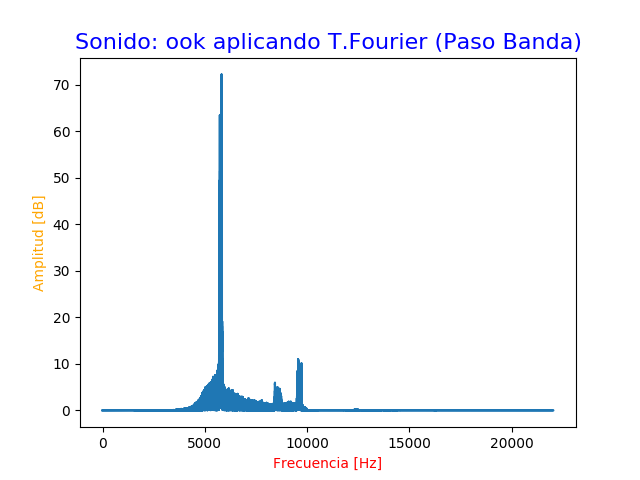
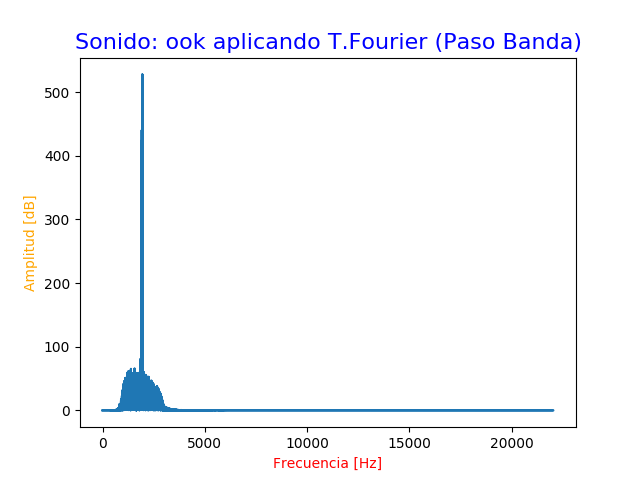
Lowpass FIlter and Bandpass FIlter

diff --git a/Models/graphic.py b/Models/graphic.py
@@ -59,7 +59,7 @@ class Graphic:
         return new_data, fft(data)
 
     # /////////////////////////////////////////////////////////////////////////////////////////////////////////////////////////////////////////////////////////////////////////
-    # - NAME: lowpassFilteredGraphic
+    # - NAME: bandpassFilteredGraphic
     # - DESCRIPTION:
     # - OUT:
     # - PARAMS:🤡
@@ -73,12 +73,26 @@ class Graphic:
         plt.show()
         return new_data, fft(y)
 
+    # /////////////////////////////////////////////////////////////////////////////////////////////////////////////////////////////////////////////////////////////////////////
+    # - NAME: lowpassFilteredGraphic
+    # - DESCRIPTION:
+    # - OUT:
+    # - PARAMS:🤡
+
+    def lowpassFilteredGraphic(self, audio, low_cutoff, order):
+        y = audio.butterLowpassFilter(audio.data_array, low_cutoff, audio.sampling_rate, order)
+        sample_length = len(y)
+        new_data = fft(y) / sample_length
+        fftFrequency = np.fft.fftfreq(sample_length, 1 / audio.sampling_rate)
+        self.makeGraphic("Sonido: " + audio.audio_name + " aplicando T.Fourier (Paso Bajo)", "Frecuencia [Hz]", abs(fftFrequency), "Amplitud [dB]", abs(new_data))
+        plt.show()
+        return new_data, fft(y)
+
     #//////////////////////////////////////////////////////////////////////////////////////////////////////////////////////////////////////////////////////////////////////////
     # - NAME: spectrogramGraphic
     # - DESCRIPTION:
     # - PARAMS:
     # - OUT:
-
 
     def spectrogramGraphic(self, data, frequency, nameAudio):
         plt.specgram(data, NFFT=1024, Fs=frequency)
@@ -95,7 +109,6 @@ class Graphic:
     # - PARAMS:
     # - OUT:
 
-
     def inverseGraphic(self, data, fourierT, audioName):
         timp = len(fourierT)/data
         iFourier = ifft(fourierT)
@@ -109,12 +122,12 @@ class Graphic:
     # - DESCRIPTION: Genera todos los graficos de manera conjunta
     # - PARAMS:
     # - OUT:
-    
 
     def createGraphics(self, originalAudio, low_cutoff, high_cutoff, order):
         self.timeGraphic(originalAudio.data_array, originalAudio.duration, originalAudio.audio_name)
         originalAudio.informationNumpyFourier, fourierT = self.frequencyGraphic(originalAudio.data_array, originalAudio.sampling_rate, originalAudio.audio_name)
-        self.bandpassFilteredGraphic(originalAudio, low_cutoff, high_cutoff, order)
+        self.lowpassFilteredGraphic(originalAudio, low_cutoff, order)
+        #self.bandpassFilteredGraphic(originalAudio, low_cutoff, high_cutoff, order)
         self.spectrogramGraphic(originalAudio.data_array, originalAudio.sampling_rate, originalAudio.audio_name)
         self.inverseGraphic(originalAudio.sampling_rate, fourierT, originalAudio.audio_name)
         return

diff --git a/Models/audio.py b/Models/audio.py
@@ -25,7 +25,6 @@ class Audio:
         self.duration = time
         self.dimension = dimension
         self.audio_name = audioName
-        self.bandpass_data = self.butterBandpassFilter(data, low_cutoff, high_cutoff, samplingRate, order)
 
     # ///////////////////////////////////////////////////////////////////////////////////////////////////////////////////////////////////////////////////////////////////////////
     # - NAME: butterBandpass
@@ -55,6 +54,36 @@ class Audio:
 
     def butterBandpassFilter(self, data, low_cutoff, high_cutoff, samplingRate, order):
         b, a = self.butterBandpass(low_cutoff, high_cutoff, samplingRate, order)
+        y = lfilter(b, a, data)
+        return y
+
+    # ///////////////////////////////////////////////////////////////////////////////////////////////////////////////////////////////////////////////////////////////////////////
+    # - NAME: butterBandpass
+    # - DESCRIPTION: Genera los coeficientes para el filtrado de frecuencias dadas las frecuencias de corte
+    # - PARAMS: - low_cutoff: Frecuencia de corte de frecuencias bajas, atenua frecuencias bajo este valor
+    #           - high_cutoff: Frecuencia de corte de frecuencias altas, atenua frecuencias sobre este valor
+    #           - samplingRate: Frecuencia de la muestra, en este caso del audio que se analiza
+    #           - order: Valor que indica el orden del polinomio de
+    # - OUT: Coeficientes a y b
+
+    def butterLowpass(self, cutoff, samplingRate, order):
+        nyq_rate = samplingRate * 0.5  # La tasa Nyquist de la señal
+        normalized_cutoff = cutoff / nyq_rate
+        b, a = butter(order, normalized_cutoff, btype='low', analog=False)
+        return b, a
+
+    # ///////////////////////////////////////////////////////////////////////////////////////////////////////////////////////////////////////////////////////////////////////////
+    # - NAME: butterBandpassFilter
+    # - DESCRIPTION: Realiza el filtro de paso de banda de las frecuencias del audio de entrada de acuerdo a dos frecuencias de corte y el orden
+    # - PARAMS: - data:
+    #           - low_cutoff:
+    #           - high_cutoff:
+    #           - samplingRate:
+    #           - order:
+    # - OUT:
+
+    def butterLowpassFilter(self, data, cutoff, samplingRate, order):
+        b, a = self.butterLowpass(cutoff, samplingRate, order)
         y = lfilter(b, a, data)
         return y
 
